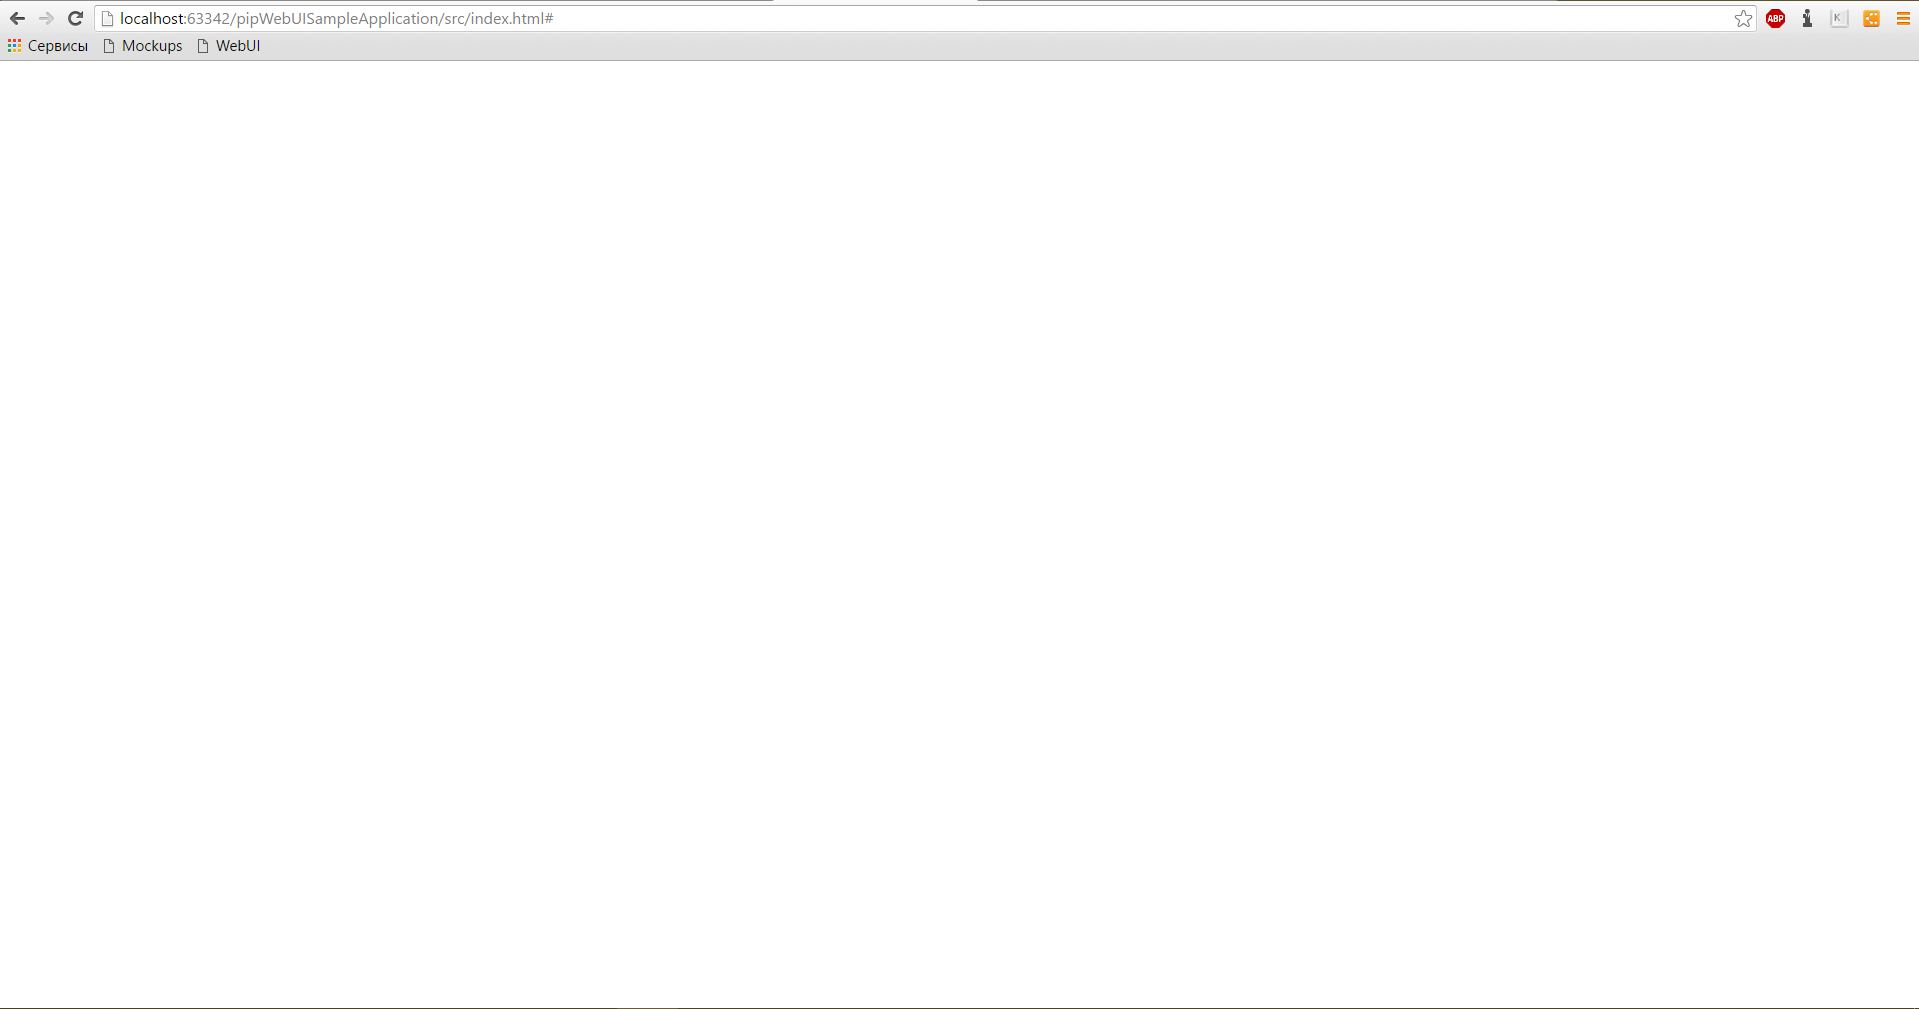
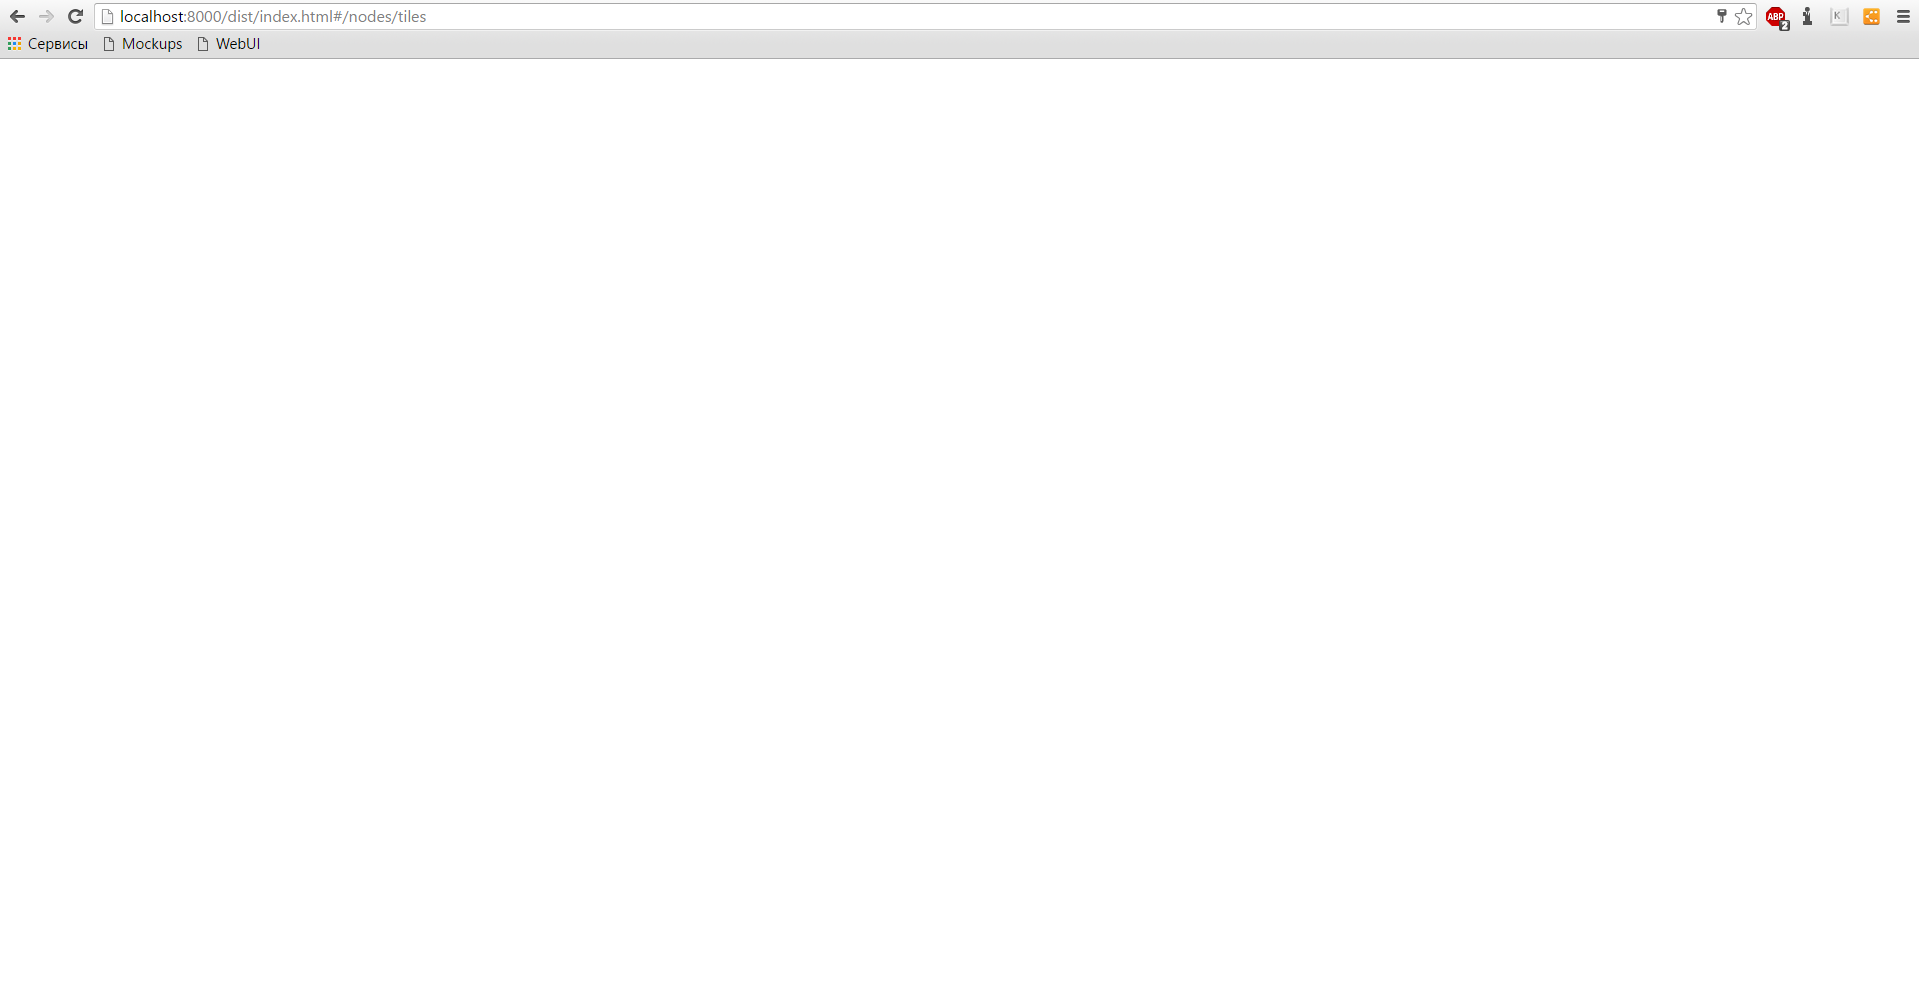
update ReadMe.md in first step, empty screen image and gulpfiles in each step

Changed region(s): [[0.0, 0.0, 0.4304, 0.0616], [0.4919, 0.0, 1.0, 0.0308]]

diff --git a/step9/src/index.html b/step9/src/index.html
@@ -12,7 +12,7 @@
     <script src="http://maps.googleapis.com/maps/api/js?sensor=false&key=AIzaSyBg6cm-FDBFPWzRcn39AuSHGQSrdtVIjEo"></script>
     <script src="pip-webui-sample.js"></script>
 </head>
-<body ng-app="pipWebUISampleModule" ng-controller="pipWebUISampleController">
+<body ng-app="app" ng-controller="appController">
 
     <pip-main>
         <pip-appbar></pip-appbar>

diff --git a/step2/gulpfile.js b/step2/gulpfile.js
@@ -8,6 +8,7 @@ gulp.task('build', ['build-dev', 'build-prod']);
 gulp.task('rebuild', ['build-dev']);
 gulp.task('clean', ['build-clean']);
 gulp.task('watch', ['build-watch']);
+gulp.task('launch', ['app-launch']);
 
 // Set default task
 gulp.task('default', ['build']);

diff --git a/step3/gulpfile.js b/step3/gulpfile.js
@@ -8,6 +8,7 @@ gulp.task('build', ['build-dev', 'build-prod']);
 gulp.task('rebuild', ['build-dev']);
 gulp.task('clean', ['build-clean']);
 gulp.task('watch', ['build-watch']);
+gulp.task('launch', ['app-launch']);
 
 // Set default task
 gulp.task('default', ['build']);

diff --git a/step5/gulpfile.js b/step5/gulpfile.js
@@ -8,6 +8,7 @@ gulp.task('build', ['build-dev', 'build-prod']);
 gulp.task('rebuild', ['build-dev']);
 gulp.task('clean', ['build-clean']);
 gulp.task('watch', ['build-watch']);
+gulp.task('launch', ['app-launch']);
 
 // Set default task
 gulp.task('default', ['build']);

diff --git a/step6/gulpfile.js b/step6/gulpfile.js
@@ -8,6 +8,7 @@ gulp.task('build', ['build-dev', 'build-prod']);
 gulp.task('rebuild', ['build-dev']);
 gulp.task('clean', ['build-clean']);
 gulp.task('watch', ['build-watch']);
+gulp.task('launch', ['app-launch']);
 
 // Set default task
 gulp.task('default', ['build']);

diff --git a/step7/gulpfile.js b/step7/gulpfile.js
@@ -8,6 +8,7 @@ gulp.task('build', ['build-dev', 'build-prod']);
 gulp.task('rebuild', ['build-dev']);
 gulp.task('clean', ['build-clean']);
 gulp.task('watch', ['build-watch']);
+gulp.task('launch', ['app-launch']);
 
 // Set default task
 gulp.task('default', ['build']);

diff --git a/step8/gulpfile.js b/step8/gulpfile.js
@@ -8,6 +8,7 @@ gulp.task('build', ['build-dev', 'build-prod']);
 gulp.task('rebuild', ['build-dev']);
 gulp.task('clean', ['build-clean']);
 gulp.task('watch', ['build-watch']);
+gulp.task('launch', ['app-launch']);
 
 // Set default task
 gulp.task('default', ['build']);

diff --git a/step9/gulpfile.js b/step9/gulpfile.js
@@ -8,6 +8,7 @@ gulp.task('build', ['build-dev', 'build-prod']);
 gulp.task('rebuild', ['build-dev']);
 gulp.task('clean', ['build-clean']);
 gulp.task('watch', ['build-watch']);
+gulp.task('launch', ['app-launch']);
 
 // Set default task
 gulp.task('default', ['build']);

diff --git a/step1/gulpfile.js b/step1/gulpfile.js
@@ -7,6 +7,7 @@ require('pip-webui-tasks').all();
 gulp.task('build', ['build-dev', 'build-prod']);
 gulp.task('rebuild', ['build-dev']);
 gulp.task('clean', ['build-clean']);
+gulp.task('launch', ['app-launch']);
 
 // Set default task
 gulp.task('default', ['build']);

diff --git a/step1/Readme.md b/step1/Readme.md
@@ -81,6 +81,7 @@ require('pip-webui-tasks').all();
 gulp.task('build', ['build-dev', 'build-prod']);
 gulp.task('rebuild', ['build-dev']);
 gulp.task('clean', ['build-clean']);
+gulp.task('launch', ['app-launch']);
 
 // Set default task
 gulp.task('default', ['build']);
@@ -138,7 +139,7 @@ In the **/src** folder create the following tree file.
 ### Execute first build
 
 In command line start the build process:
-```
+```bash
 gulp build
 ```
 
@@ -146,7 +147,14 @@ If build is successful, in the root folder you can find two new folders **/lib**
 
 ![Result structure](artifacts/result_structure.png)
 
-Go to **/dist** folder, locate **index.html** file and open it in the browser.  You shall see an empty web page.
+Go to **/dist** folder, locate **index.html** file.  
+
+Open your app by executing in command line:
+```bash
+gulp launch
+```
+
+You shall see an empty web page.
 
 ![Empty web page](artifacts/empty_screen.png)
 
